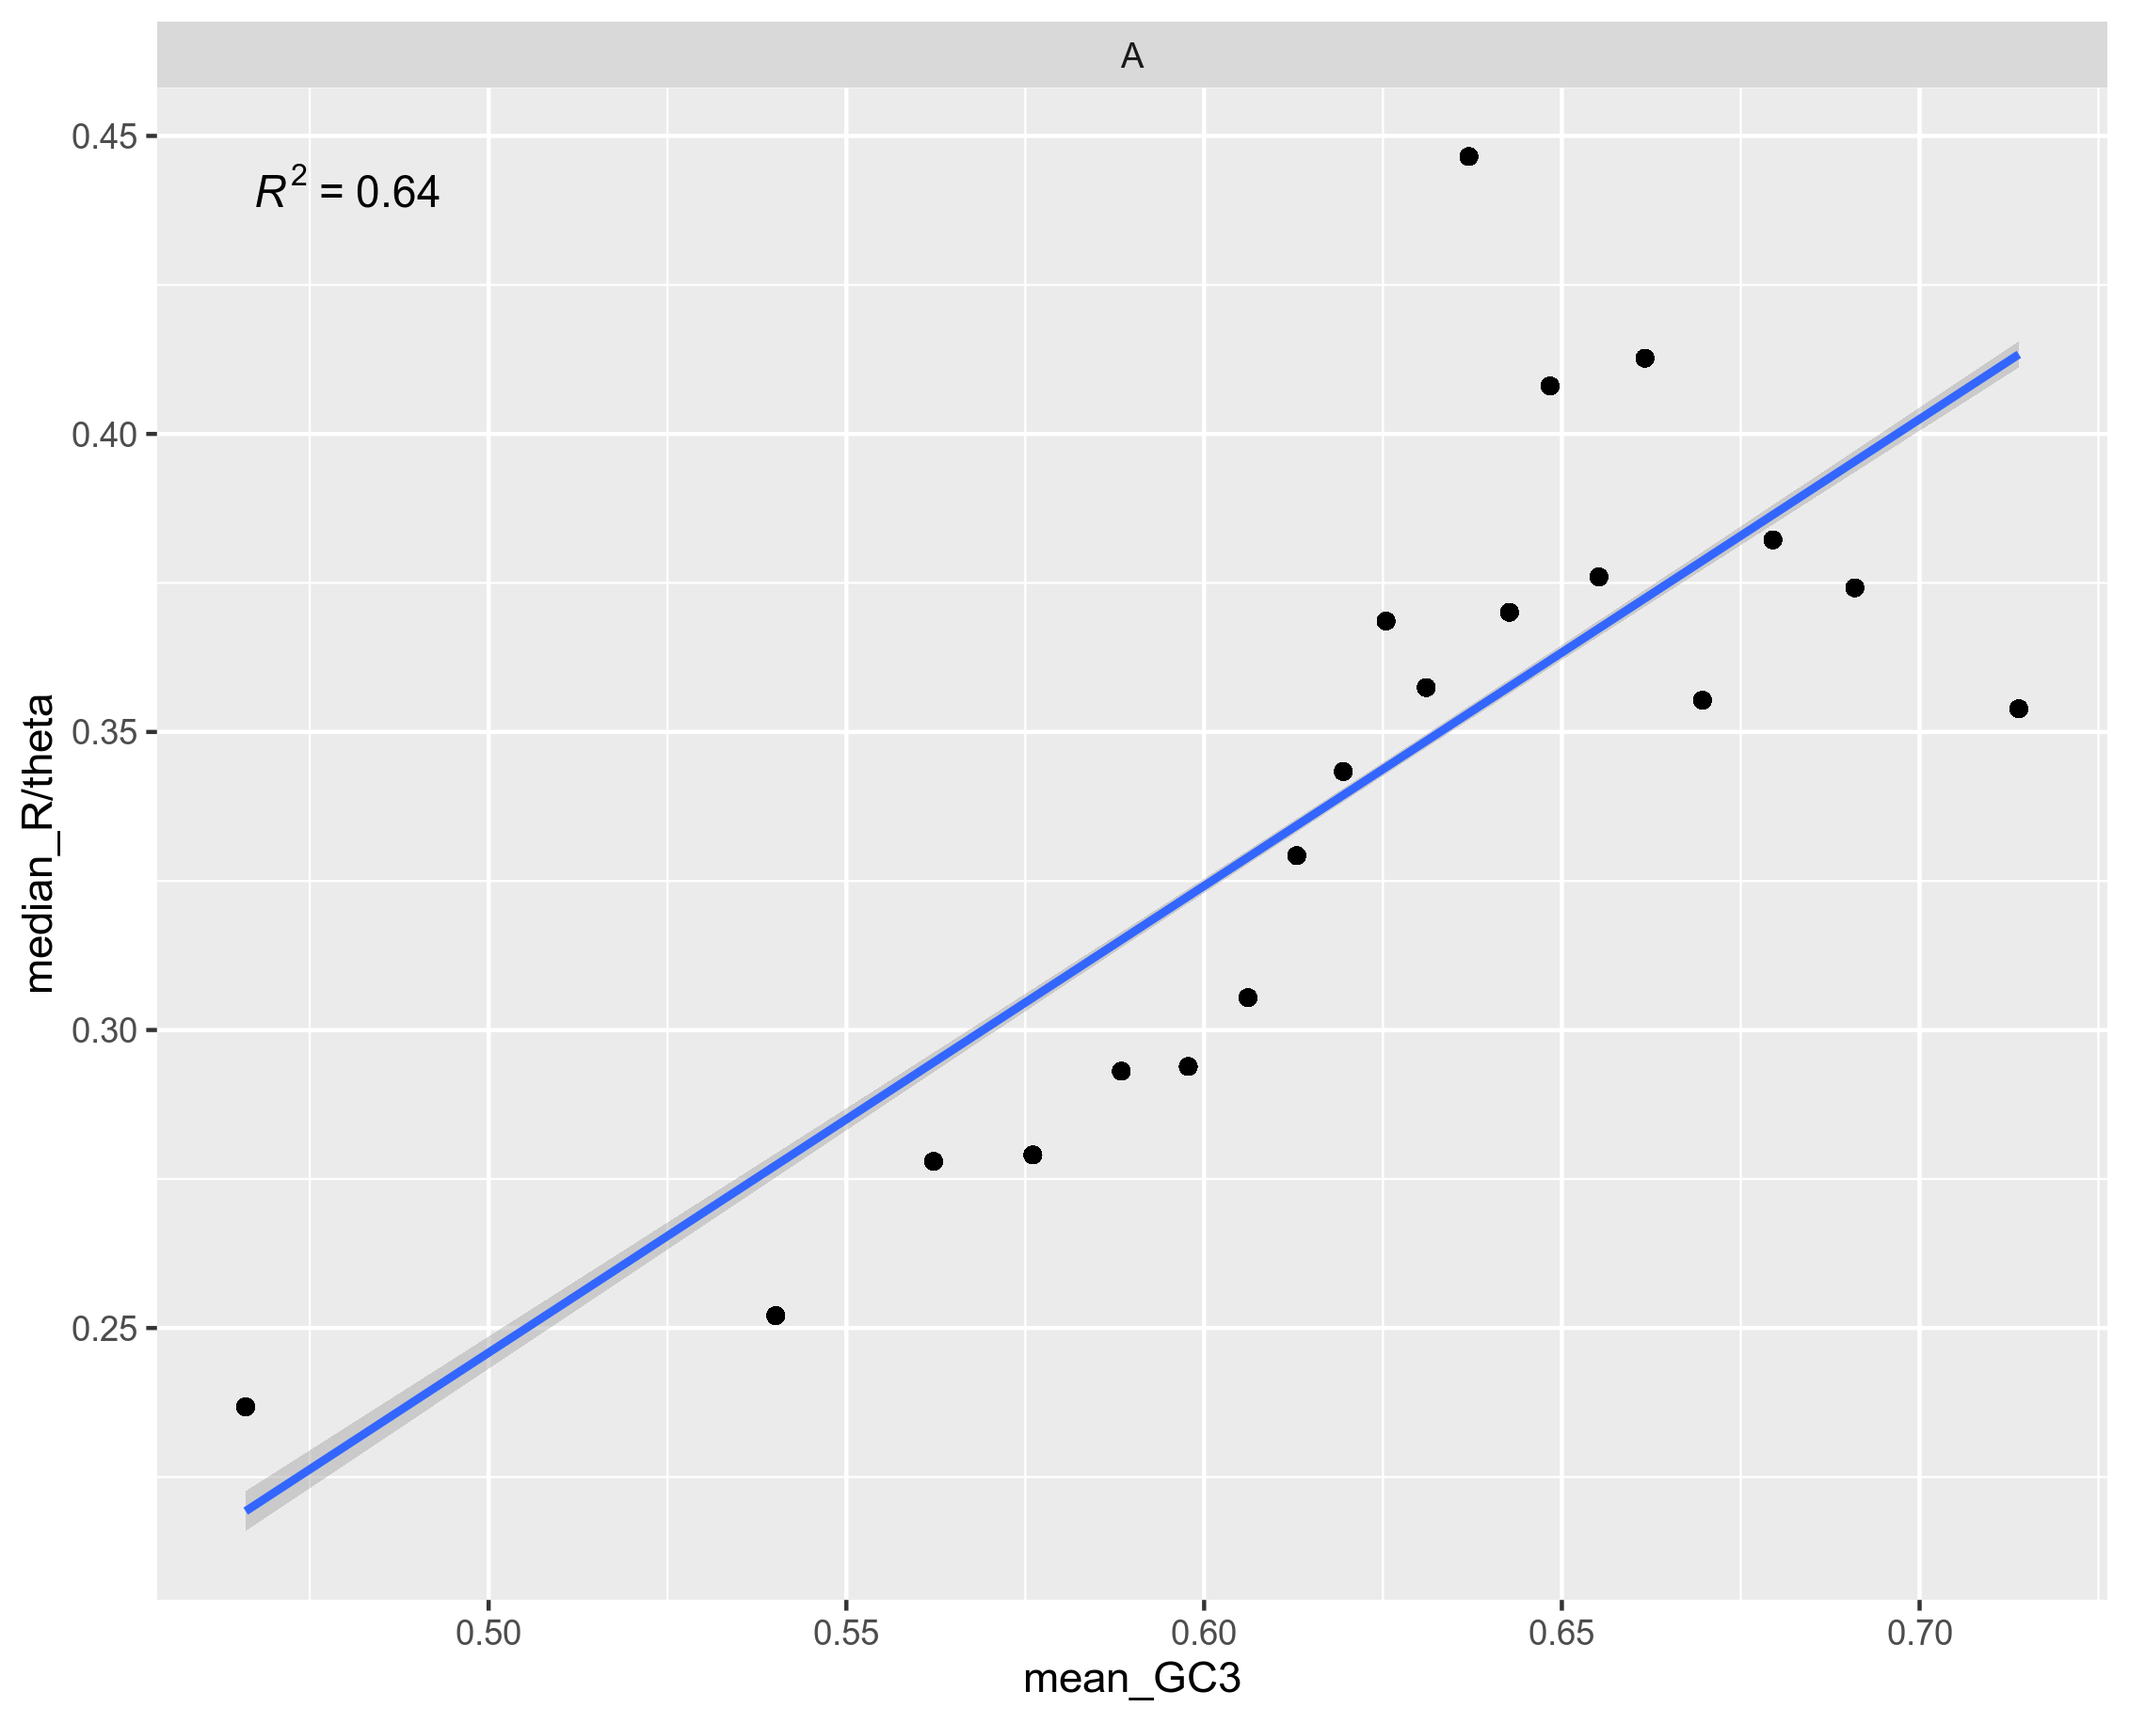
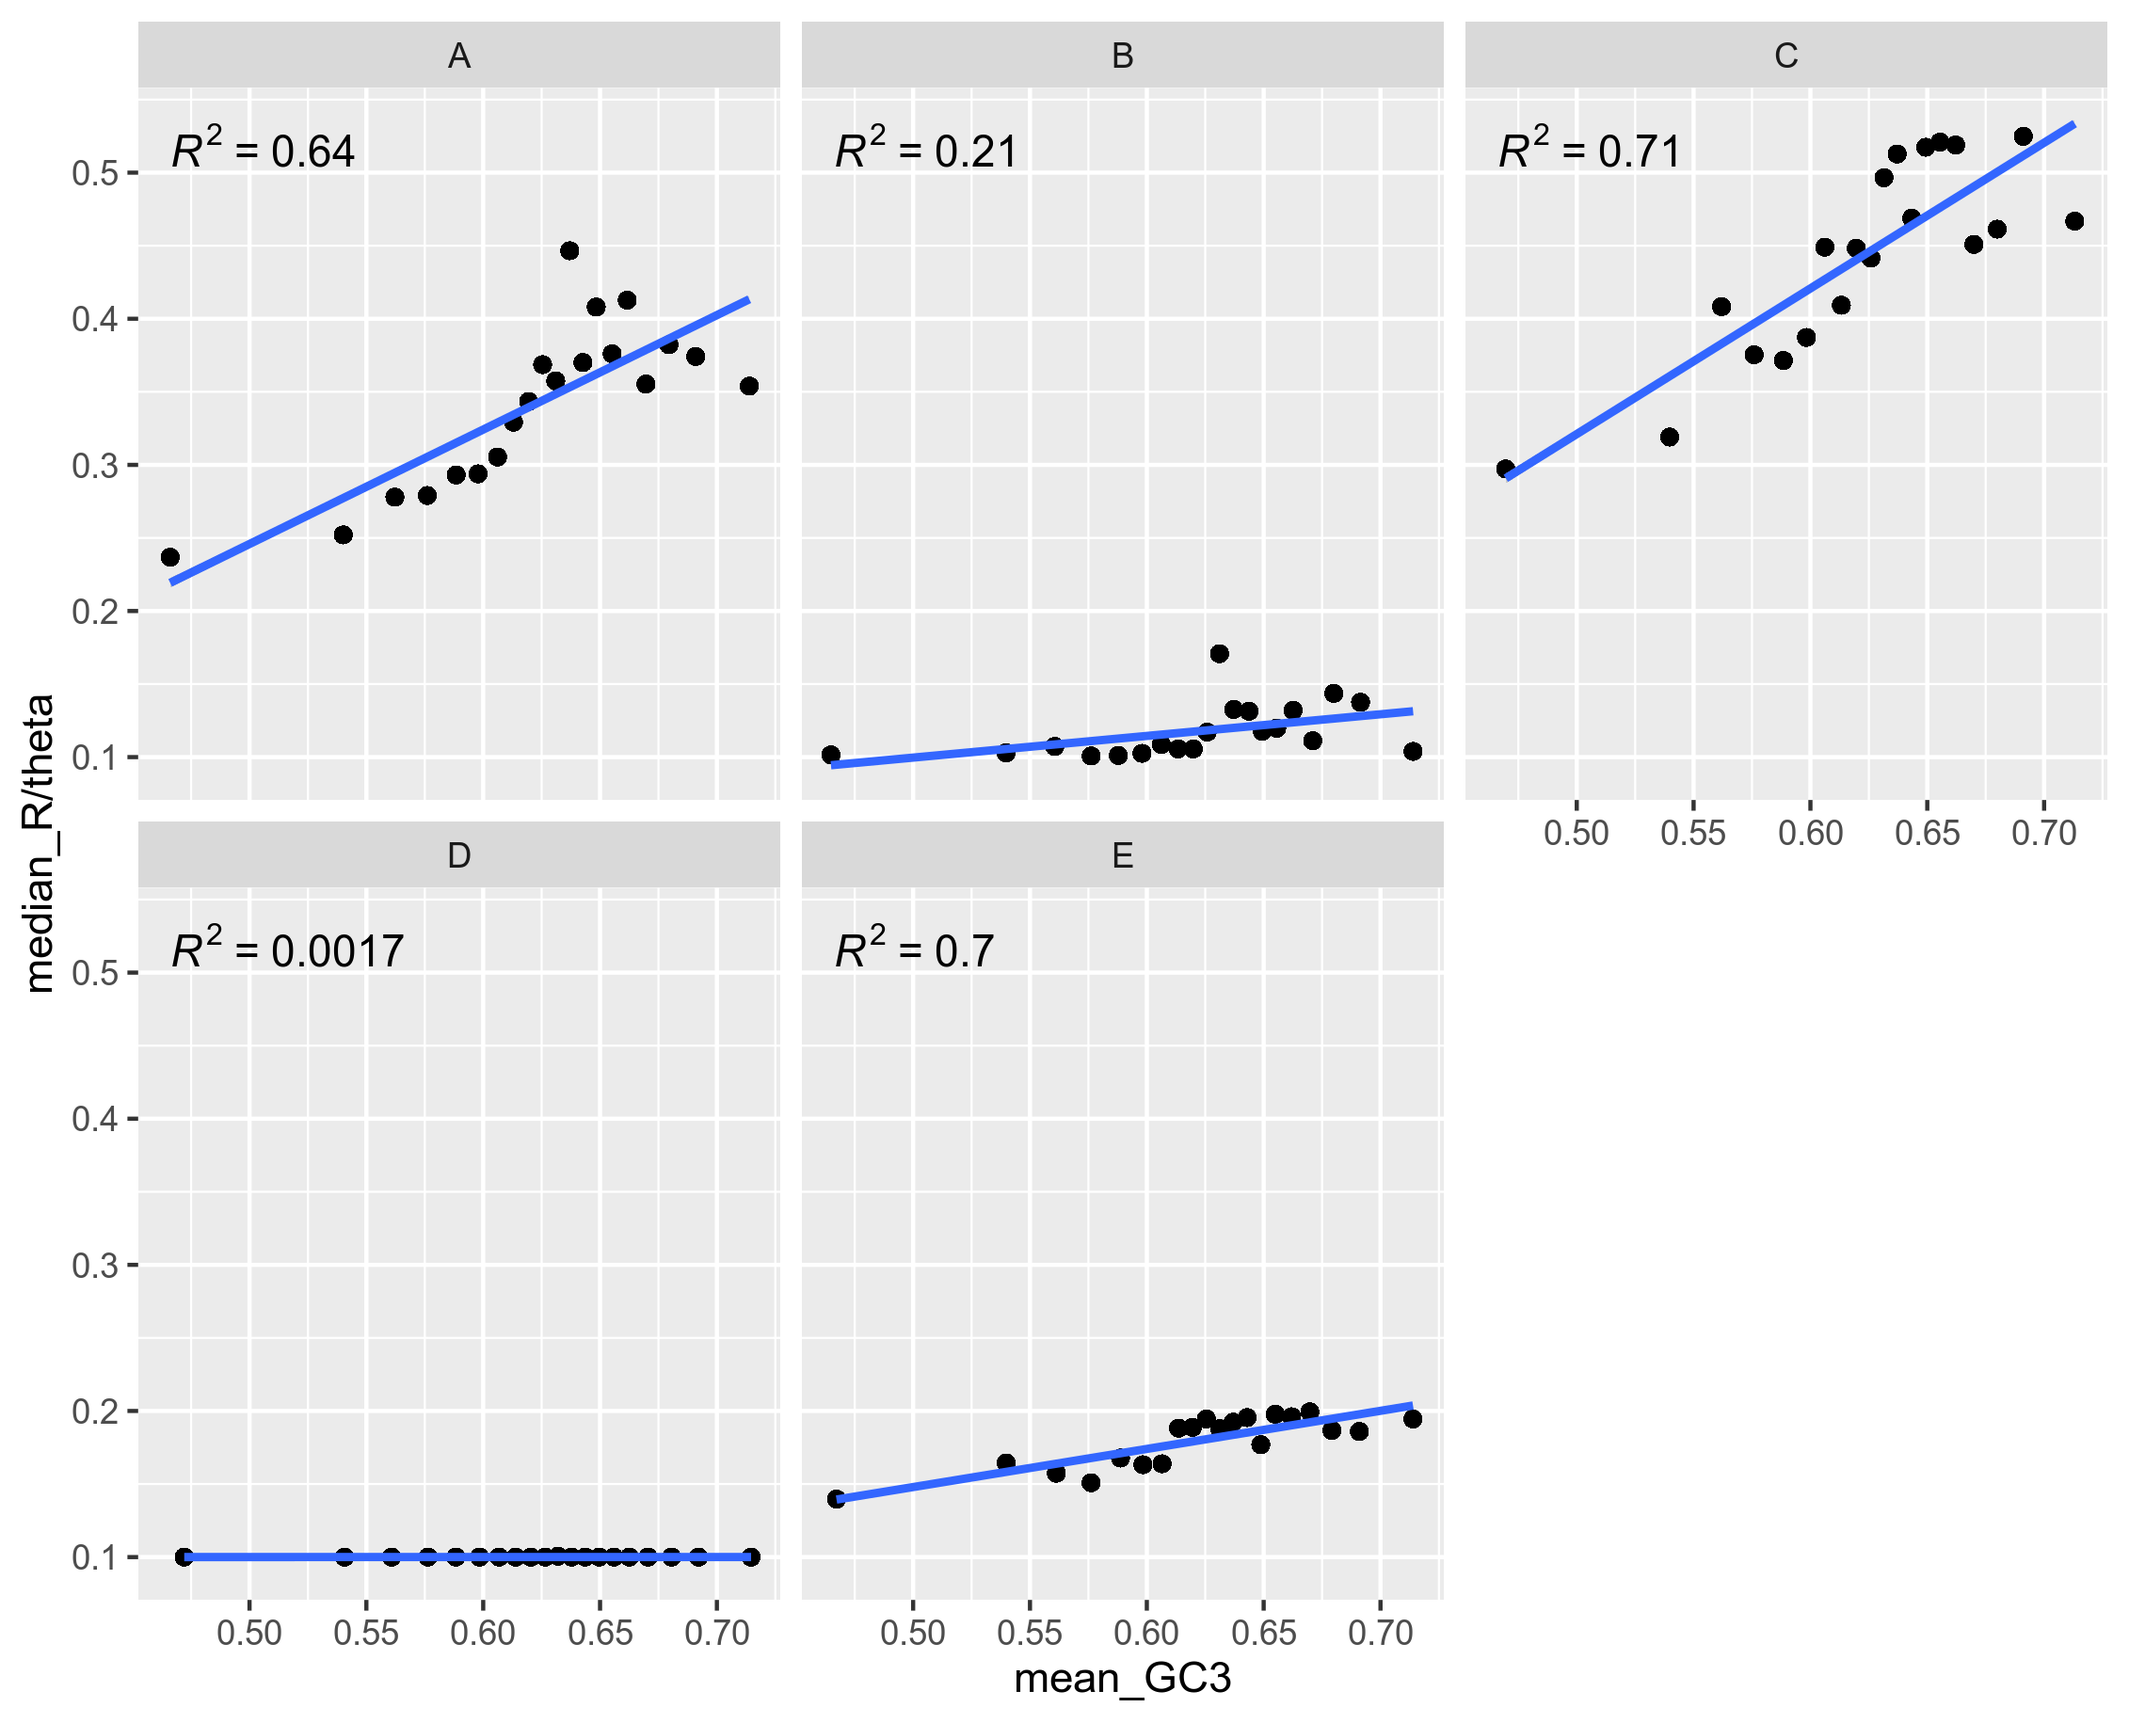
all genospecies

diff --git a/workflow/workflow.py b/workflow/workflow.py
@@ -69,8 +69,7 @@ for bin_size in bin_sizes:
         if not "unitig_0" in genome:
             continue
 
-        if not "gsA" in genome:
-            continue
+
 
 
 
@@ -313,6 +312,6 @@ fi
         fi
             """
 
-        break # single genome
+        #break # single genome
 
 
